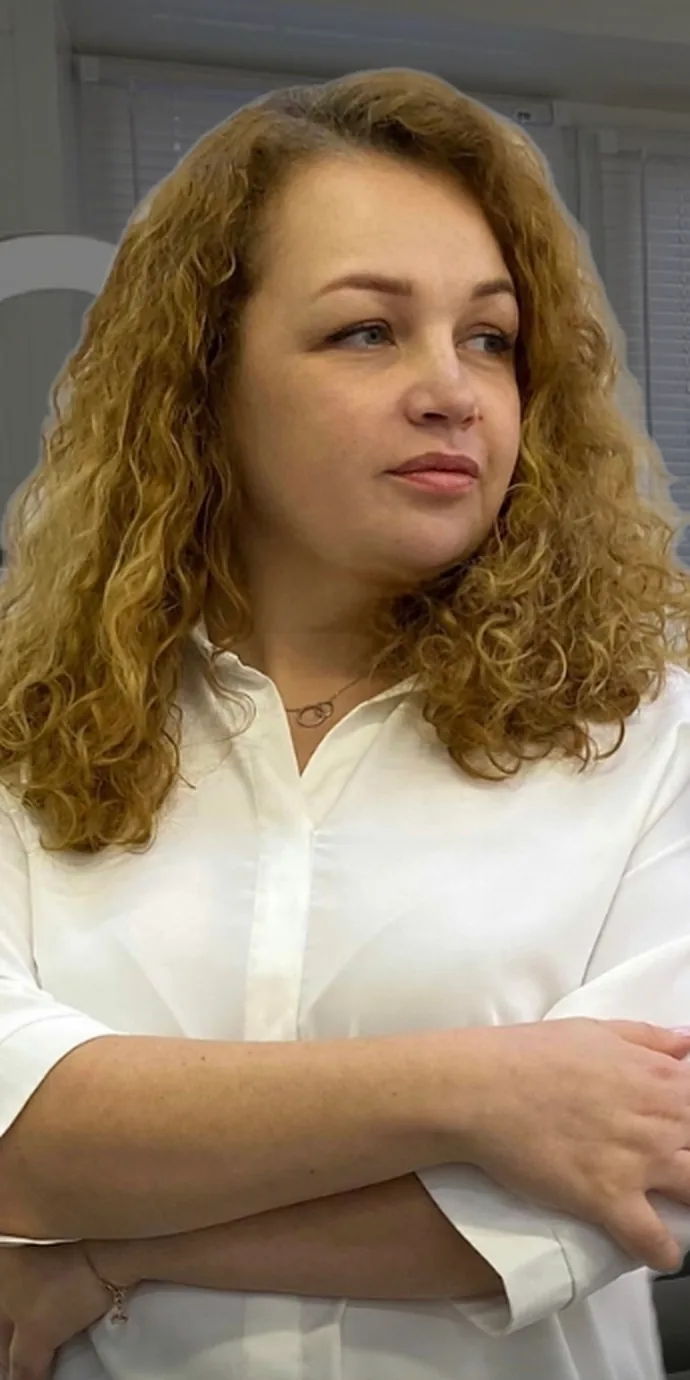
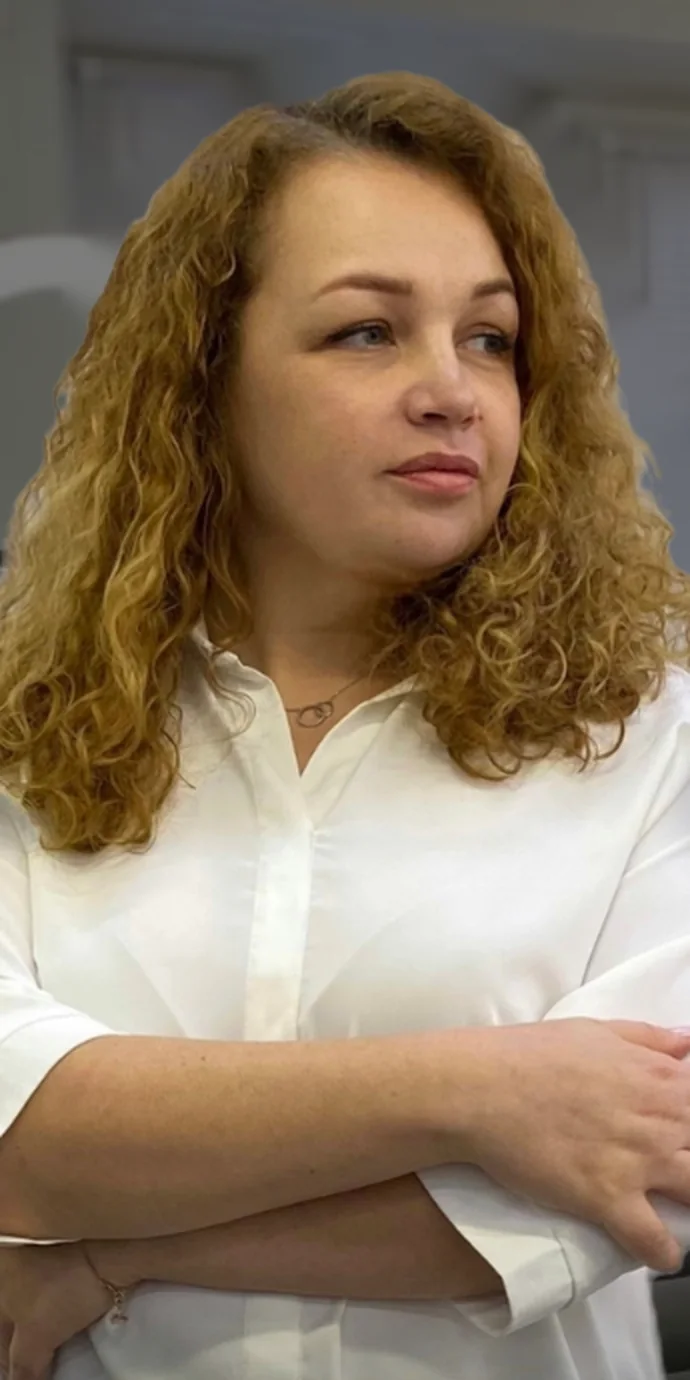
Мамонова, черновик: карта с одной меткой, вход по ключу без хранения, фото без ореола

diff --git a/mamonova-draft/admin/index.html b/mamonova-draft/admin/index.html
@@ -41,9 +41,10 @@ a{color:inherit}
   <!-- Вход -->
   <section id="login">
     <h1>Правка сайта</h1>
-    <p class="note">Здесь можно поменять цены и тексты на сайте. Введите пароль, который вам дали.</p>
-    <form class="card" id="loginForm">
-      <div class="f"><label for="pw">Пароль</label><input id="pw" type="password" autocomplete="current-password" required></div>
+    <p class="note">Здесь можно поменять цены и тексты на сайте. Вставьте ключ доступа, который вам дал Ярослав. Ключ нигде не сохраняется: после закрытия вкладки его нужно ввести снова.</p>
+    <form class="card" id="loginForm" autocomplete="on">
+      <input type="text" name="username" value="Анна Мамонова" autocomplete="username" hidden>
+      <div class="f"><label for="pw">Ключ доступа</label><input id="pw" name="password" type="password" autocomplete="current-password" spellcheck="false" required><small>Длинная строка, начинается с github_pat_</small></div>
       <button type="submit">Войти</button>
       <p class="msg" id="loginMsg" role="status"></p>
     </form>
@@ -56,20 +57,6 @@ a{color:inherit}
     <div id="fields"></div>
   </section>
 
-  <!-- Настройка ключа (для Ярослава) -->
-  <section id="setup" hidden>
-    <h1>Настройка входа</h1>
-    <p class="note">Один раз: создайте на GitHub fine-grained токен только для репозитория сайта с правом Contents: Read and write. Токен шифруется паролем прямо в браузере и никуда не отправляется. Скачанный файл <b>key.json</b> положите в папку <b>admin/</b> рядом с этой страницей.</p>
-    <form class="card" id="setupForm">
-      <div class="f"><label for="sTok">Токен GitHub</label><input id="sTok" type="password" required autocomplete="off"></div>
-      <div class="f"><label for="sRepo">Репозиторий</label><input id="sRepo" value="yaroslavkalnish17-code/yaroslavkalnish17-code.github.io" required><small>владелец/название</small></div>
-      <div class="f"><label for="sBranch">Ветка</label><input id="sBranch" value="main" required></div>
-      <div class="f"><label for="sPath">Путь к странице</label><input id="sPath" value="mamonova/index.html" required></div>
-      <div class="f"><label for="sPw">Пароль для Анны</label><input id="sPw" type="password" minlength="10" required autocomplete="new-password"><small>Не короче 10 символов</small></div>
-      <button type="submit">Скачать key.json</button>
-      <p class="msg" id="setupMsg" role="status"></p>
-    </form>
-  </section>
 </div>
 
 <div class="bar" id="bar" hidden>
@@ -82,6 +69,8 @@ a{color:inherit}
 (function(){
   var $=function(id){return document.getElementById(id)};
   var enc=new TextEncoder(), dec=new TextDecoder();
+  /* Где лежит сайт. Не секрет: это просто адрес файла. */
+  var SITE={repo:'yaroslavkalnish17-code/yaroslavkalnish17-code.github.io', branch:'main', path:'mamonova/index.html'};
   var cfg=null, sha=null, doc=null, original={};
 
   /* Цены, которые дублируются в разметке для поисковиков */
@@ -94,39 +83,34 @@ a{color:inherit}
   function utf8ToB64(str){return b64(enc.encode(str))}
   function b64ToUtf8(s){return dec.decode(unb64(s.replace(/\n/g,'')))}
 
-  async function deriveKey(pw,salt){
-    var base=await crypto.subtle.importKey('raw',enc.encode(pw),'PBKDF2',false,['deriveKey']);
-    return crypto.subtle.deriveKey({name:'PBKDF2',salt:salt,iterations:310000,hash:'SHA-256'},base,{name:'AES-GCM',length:256},false,['encrypt','decrypt']);
-  }
 
   function api(path,opt){
     opt=opt||{}; opt.headers=Object.assign({'Accept':'application/vnd.github+json','Authorization':'Bearer '+cfg.token},opt.headers||{});
     return fetch('https://api.github.com/repos/'+cfg.repo+'/contents/'+cfg.path+path,opt);
   }
 
-  /* ---------- Вход ---------- */
+  /* ---------- Вход ----------
+     Ключ (fine-grained токен GitHub) живёт только в памяти этой вкладки:
+     не пишется в код, в файлы, в localStorage и cookies. Уходит только на api.github.com. */
   $('loginForm').addEventListener('submit',async function(e){
-    e.preventDefault(); var m=$('loginMsg'); m.className='msg'; m.textContent='Проверяю…';
-    try{
-      var r=await fetch('key.json',{cache:'no-store'});
-      if(!r.ok)throw new Error('nokey');
-      var k=await r.json();
-      var key=await deriveKey($('pw').value,unb64(k.salt));
-      var plain=await crypto.subtle.decrypt({name:'AES-GCM',iv:unb64(k.iv)},key,unb64(k.data));
-      cfg=JSON.parse(dec.decode(plain));
-    }catch(err){
-      m.className='msg err';
-      m.textContent=err.message==='nokey'?'Вход ещё не настроен. Напишите Ярославу.':'Пароль не подошёл. Проверьте раскладку и Caps Lock.';
-      return;
-    }
+    e.preventDefault(); var m=$('loginMsg'), t=$('pw').value.trim(); m.className='msg';
+    if(/^gh[pousr]_/.test(t)){m.className='msg err';m.textContent='Это старый тип ключа. Нужен ключ, который начинается с github_pat_.';return}
+    if(!/^github_pat_[A-Za-z0-9_]{20,}$/.test(t)){m.className='msg err';m.textContent='Ключ не похож на нужный. Скопируйте его целиком, он начинается с github_pat_.';return}
+    cfg=Object.assign({token:t},SITE);
     m.textContent='Загружаю сайт…';
-    try{ await loadPage(); }catch(err){ m.className='msg err'; m.textContent='Не удалось загрузить сайт: '+err.message+'. Проверьте интернет и попробуйте ещё раз.'; return; }
+    try{ await loadPage(); }
+    catch(err){ cfg=null; m.className='msg err'; m.textContent=err.message; return; }
+    $('pw').value='';
     $('login').hidden=true; $('editor').hidden=false; $('bar').hidden=false;
   });
 
   async function loadPage(){
-    var r=await api('?ref='+encodeURIComponent(cfg.branch),{cache:'no-store'});
-    if(!r.ok)throw new Error('GitHub ответил '+r.status);
+    var r;
+    try{ r=await api('?ref='+encodeURIComponent(cfg.branch),{cache:'no-store'}); }
+    catch(e){ throw new Error('Нет связи с GitHub. Проверьте интернет и попробуйте ещё раз.'); }
+    if(r.status===401)throw new Error('Ключ не подошёл или срок его действия закончился. Напишите Ярославу.');
+    if(r.status===403||r.status===404)throw new Error('У ключа нет доступа к сайту. Напишите Ярославу.');
+    if(!r.ok)throw new Error('GitHub ответил '+r.status+'. Попробуйте позже.');
     var j=await r.json(); sha=j.sha;
     var html=b64ToUtf8(j.content);
     doc=new DOMParser().parseFromString(html,'text/html');
@@ -194,18 +178,7 @@ a{color:inherit}
     }catch(err){ m.className='msg err'; m.textContent='Не сохранилось: '+err.message; updSave(); }
   });
 
-  /* ---------- Настройка (admin/?setup) ---------- */
-  if(location.search.indexOf('setup')>-1){$('login').hidden=true;$('setup').hidden=false}
-  $('setupForm').addEventListener('submit',async function(e){
-    e.preventDefault();
-    var payload={token:$('sTok').value.trim(),repo:$('sRepo').value.trim(),branch:$('sBranch').value.trim(),path:$('sPath').value.trim()};
-    var salt=crypto.getRandomValues(new Uint8Array(16)), iv=crypto.getRandomValues(new Uint8Array(12));
-    var key=await deriveKey($('sPw').value,salt);
-    var data=await crypto.subtle.encrypt({name:'AES-GCM',iv:iv},key,enc.encode(JSON.stringify(payload)));
-    var out=JSON.stringify({v:1,salt:b64(salt),iv:b64(iv),data:b64(data)},null,1);
-    var a=document.createElement('a'); a.href=URL.createObjectURL(new Blob([out],{type:'application/json'})); a.download='key.json'; a.click();
-    $('sTok').value=''; $('setupMsg').className='msg ok'; $('setupMsg').textContent='Готово: key.json скачан. Положите его в папку admin/ на сайте.';
-  });
+  window.addEventListener('pagehide',function(){cfg=null});
 })();
 </script>
 </body>

diff --git a/mamonova-draft/index.html b/mamonova-draft/index.html
@@ -57,6 +57,7 @@
         "addressCountry": "RU"
       },
       "hasMap": "https://yandex.ru/maps/org/studiya_permanentnogo_makiyazha/90374843981/",
+      "geo": {"@type": "GeoCoordinates", "latitude": 51.311561, "longitude": 37.894836},
       "sameAs": [
         "https://vk.ru/anna_v_beauty",
         "https://yandex.ru/maps/org/studiya_permanentnogo_makiyazha/90374843981/"
@@ -441,7 +442,9 @@ ul{margin:0;padding:0;list-style:none}
 .contacts .maplink:hover{color:var(--paper)}
 .map{position:relative;min-height:420px;background:#111;border-radius:2px;overflow:hidden}
 .map iframe{position:absolute;inset:0;width:100%;height:100%;border:0;filter:grayscale(1) contrast(1.05)}
-.map .ph-map{position:absolute;inset:0;display:grid;place-items:center;color:var(--ash);font-size:15px}
+.map .ph-map{position:absolute;inset:0;display:grid;place-items:center;text-align:center;padding:24px;color:var(--ash);font-size:15px;z-index:1;background:#111;transition:opacity .5s var(--ease)}
+.map .ph-map.gone{opacity:0;pointer-events:none}
+.map .ph-map a{color:var(--paper)}
 @media (max-width:860px){.contacts .grid{grid-template-columns:1fr}.map{min-height:340px;margin-inline:calc(-1*var(--gutter));border-radius:0}}
 
 .foot{padding-block:40px;border-top:1px solid var(--smoke);font-size:14px;color:#8a8a8a}
@@ -1020,9 +1023,9 @@ document.documentElement.className += " js";
           <a class="btn ghost" href="https://max.ru/u/f9LHodD0cOJ64hMOu7DZuArBhuwykH2_aZ247NA8ypV6dwv4crkbjm5RouQ" target="_blank" rel="noopener"><svg><use href="#i-chat"/></svg>Написать в MAX</a>
         </div>
       </div>
-      <div class="map rv d1" id="map" data-src="https://yandex.ru/map-widget/v1/org/studiya_permanentnogo_makiyazha/90374843981/?z=17">
-        <div class="ph-map">Карта загружается…</div>
-        <noscript><iframe src="https://yandex.ru/map-widget/v1/org/studiya_permanentnogo_makiyazha/90374843981/?z=17" title="Студия на Яндекс Картах" loading="lazy"></iframe></noscript>
+      <div class="map rv d1" id="map" data-src="https://yandex.ru/map-widget/v1/?ll=37.894836%2C51.311561&amp;z=17&amp;pt=37.894836%2C51.311561%2Cpm2dgm">
+        <div class="ph-map" id="map-ph"><span>Загружаю карту…</span></div>
+        <noscript><iframe src="https://yandex.ru/map-widget/v1/?ll=37.894836%2C51.311561&amp;z=17&amp;pt=37.894836%2C51.311561%2Cpm2dgm" title="Студия на Яндекс Картах" loading="lazy"></iframe></noscript>
       </div>
     </div>
   </div>
@@ -1143,8 +1146,11 @@ document.documentElement.className += " js";
   var map=d.getElementById('map');
   function loadMap(){
     if(map.dataset.done)return; map.dataset.done=1;
-    var f=d.createElement('iframe'); f.src=map.dataset.src; f.title='Студия на Яндекс Картах'; f.loading='lazy'; f.allowFullscreen=true;
-    map.appendChild(f);
+    var f=d.createElement('iframe'), ph=d.getElementById('map-ph'), done=false;
+    f.title='Студия на Яндекс Картах'; f.allowFullscreen=true;
+    f.addEventListener('load',function(){done=true;ph.classList.add('gone')});
+    setTimeout(function(){if(!done)ph.innerHTML='<span>Карта не загрузилась.<br><a href="https://yandex.ru/maps/org/studiya_permanentnogo_makiyazha/90374843981/" target="_blank" rel="noopener">Открыть в Яндекс Картах</a></span>'},15000);
+    f.src=map.dataset.src; map.appendChild(f);
   }
   if('IntersectionObserver' in window){
     var mo=new IntersectionObserver(function(es){if(es[0].isIntersecting){loadMap();mo.disconnect()}},{rootMargin:'400px'});
